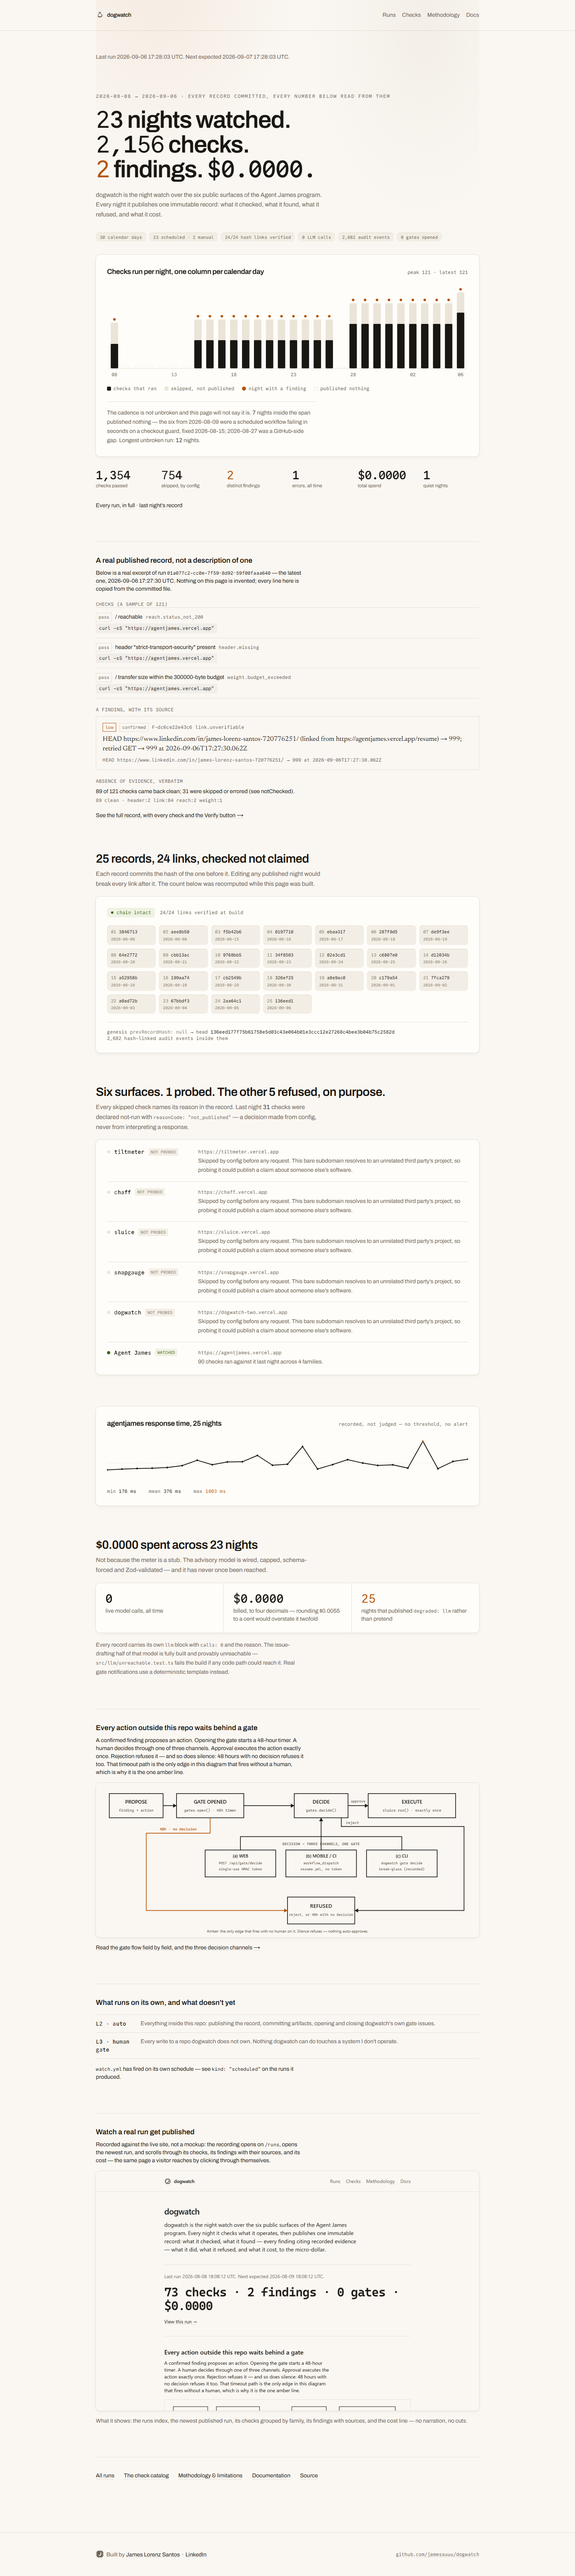
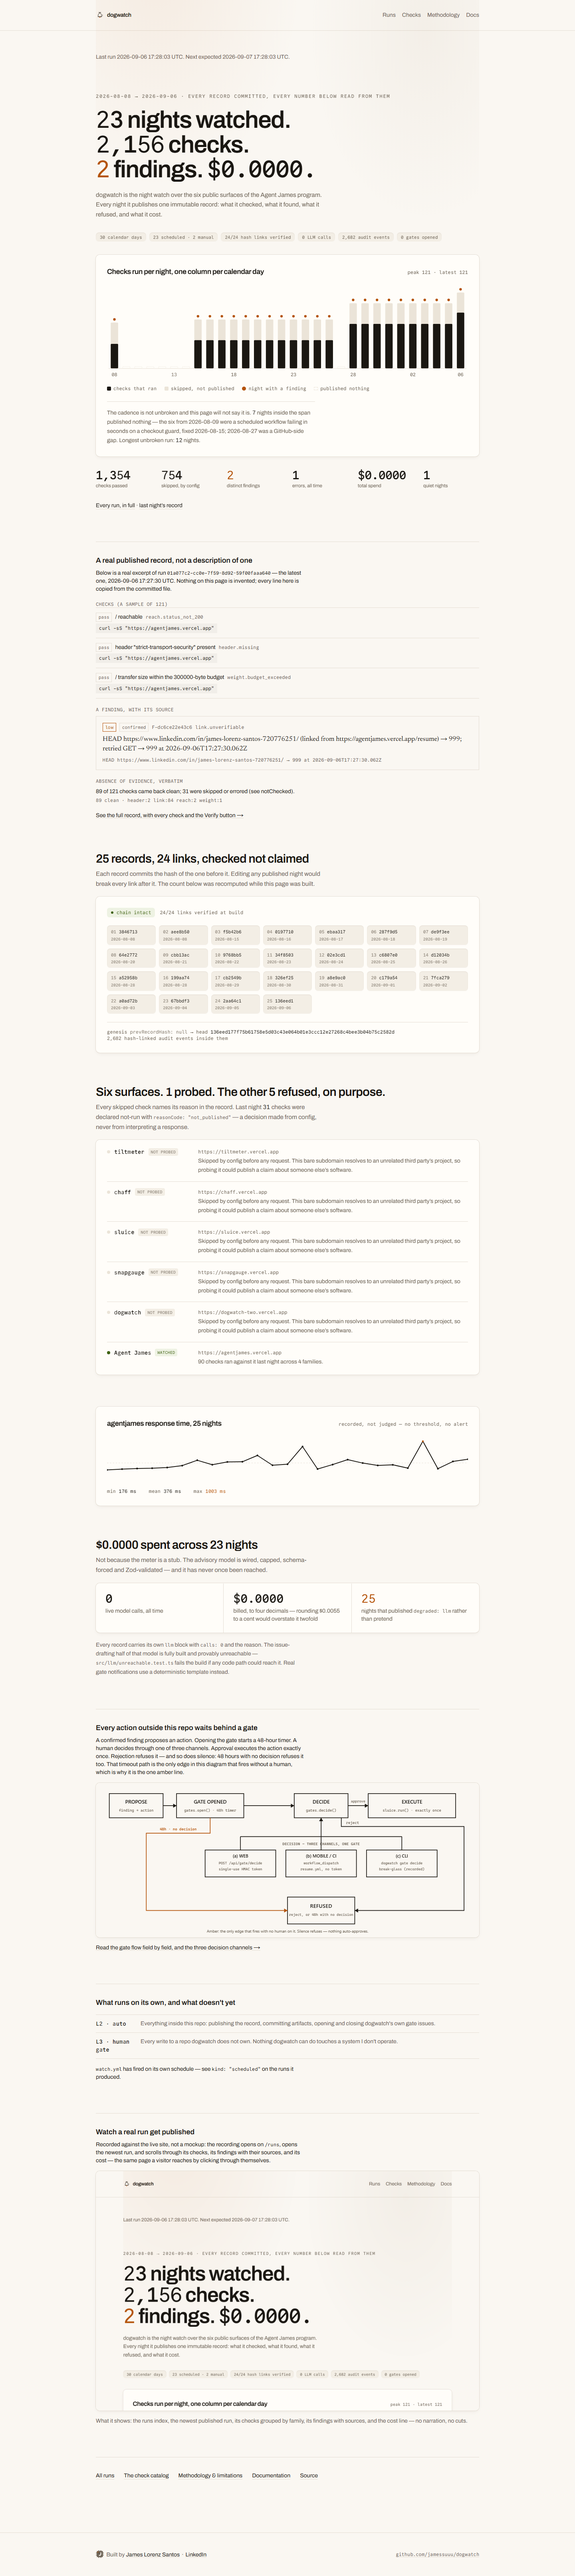
feat(web): give a run page its shape before its 121 rows of detail
/runs/<id> opened with the run id and a metadata line and went straight
into the check list, so "what happened on this night" required scrolling
the whole record. A six-cell summary — checks, passed, skipped, findings,
gates, cost — now answers it at the fold, read off the record itself rather
than the derived index, with the detail below serving as evidence for it
rather than the only way to find it.

Also fixes "1 findings" / "1 gates" pluralisation, which the old stat line
had too.

Claude-Session: https://claude.ai/code/session_019rfvjaP9hvT368bXjyYaBM

Changed region(s): [[0.2188, 0.8414, 0.5625, 0.9349]]

diff --git a/apps/web/components/RunRecordDetail.tsx b/apps/web/components/RunRecordDetail.tsx
@@ -223,6 +223,65 @@ function AuditSection({ record }: { record: RunRecord }) {
   );
 }
 
+/**
+ * A run's shape before its 121 rows of detail.
+ *
+ * The page previously opened with the run id and a metadata line, then went
+ * straight into the check list — so "what happened on this night" required
+ * scrolling the whole record. These six numbers are read off the record
+ * itself (never the index, which is a derived file) and answer it at a
+ * glance; the detail below is then evidence for them rather than the only
+ * way to find them.
+ */
+function RunSummary({ record }: { record: RunRecord }) {
+  const verdicts = { pass: 0, finding: 0, skipped: 0, error: 0 };
+  for (const c of record.checks) {
+    if (c.verdict === "pass") verdicts.pass += 1;
+    else if (c.verdict === "finding") verdicts.finding += 1;
+    else if (c.verdict === "skipped") verdicts.skipped += 1;
+    else if (c.verdict === "error") verdicts.error += 1;
+  }
+  const quiet = record.findings.length === 0;
+
+  return (
+    <header className="ambient flex flex-col gap-6">
+      <div className="flex flex-col gap-2">
+        <p className="font-mono text-xs tracking-[0.14em] text-ink-muted uppercase">
+          {record.kind} run &middot; commit {record.commit.slice(0, 12)}
+        </p>
+        <h1 className="font-mono text-2xl font-semibold tracking-tight break-all text-ink sm:text-3xl">
+          {record.runId}
+        </h1>
+        <p className="text-sm text-ink-muted">
+          {formatDateTime(record.startedAt)} &rarr; {formatDateTime(record.endedAt)}
+        </p>
+      </div>
+
+      <div className="panel grid grid-cols-2 gap-px overflow-hidden bg-rule sm:grid-cols-3 lg:grid-cols-6">
+        {[
+          { v: String(record.checks.length), l: "checks" },
+          { v: String(verdicts.pass), l: "passed" },
+          { v: String(verdicts.skipped), l: "skipped" },
+          {
+            v: String(record.findings.length),
+            l: record.findings.length === 1 ? "finding" : "findings",
+            tone: quiet ? "" : "text-amber",
+          },
+          { v: String(record.gates.length), l: record.gates.length === 1 ? "gate" : "gates" },
+          { v: formatUsd(record.cost.microUsd), l: "cost" },
+        ].map((s) => (
+          <div key={s.l + s.v} className="flex flex-col gap-1 bg-raised p-4">
+            <span className={`font-mono text-xl leading-none font-semibold tabular-nums sm:text-2xl ${s.tone ?? "text-ink"}`}>
+              {s.v}
+            </span>
+            <span className="text-xs text-ink-muted">{s.l}</span>
+          </div>
+        ))}
+      </div>
+    </header>
+  );
+}
+
 export interface RunRecordDetailProps {
   record: RunRecord;
   raw: string;
@@ -235,13 +294,7 @@ export interface RunRecordDetailProps {
 export function RunRecordDetail({ record, raw, relativePath }: RunRecordDetailProps) {
   return (
     <div className="flex flex-col gap-8">
-      <div className="flex flex-col gap-2">
-        <h1 className="font-mono text-lg font-semibold tracking-tight text-ink">{record.runId}</h1>
-        <p className="text-sm text-ink-muted">
-          {record.kind} · started {formatDateTime(record.startedAt)} · ended {formatDateTime(record.endedAt)} · commit{" "}
-          <span className="font-mono">{record.commit.slice(0, 12)}</span>
-        </p>
-      </div>
+      <RunSummary record={record} />
 
       <VerifyButton record={record} />
 
